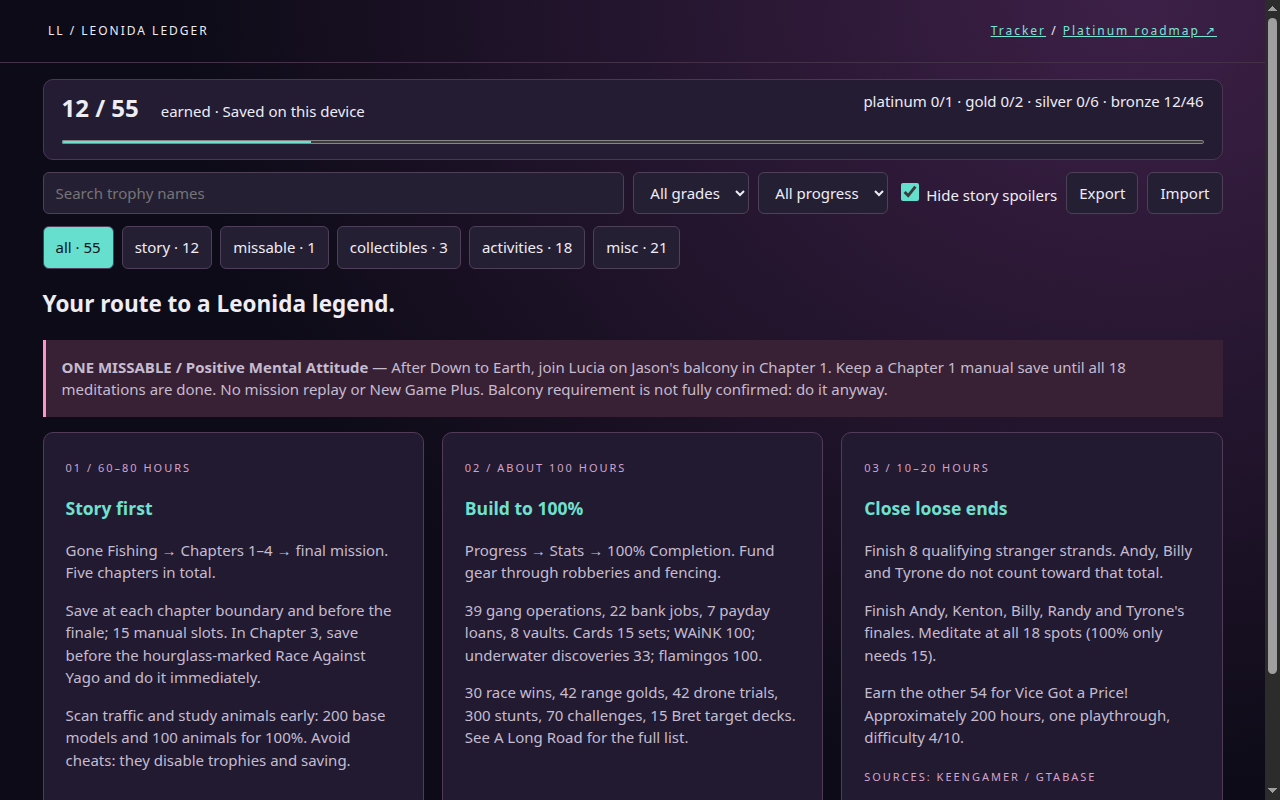
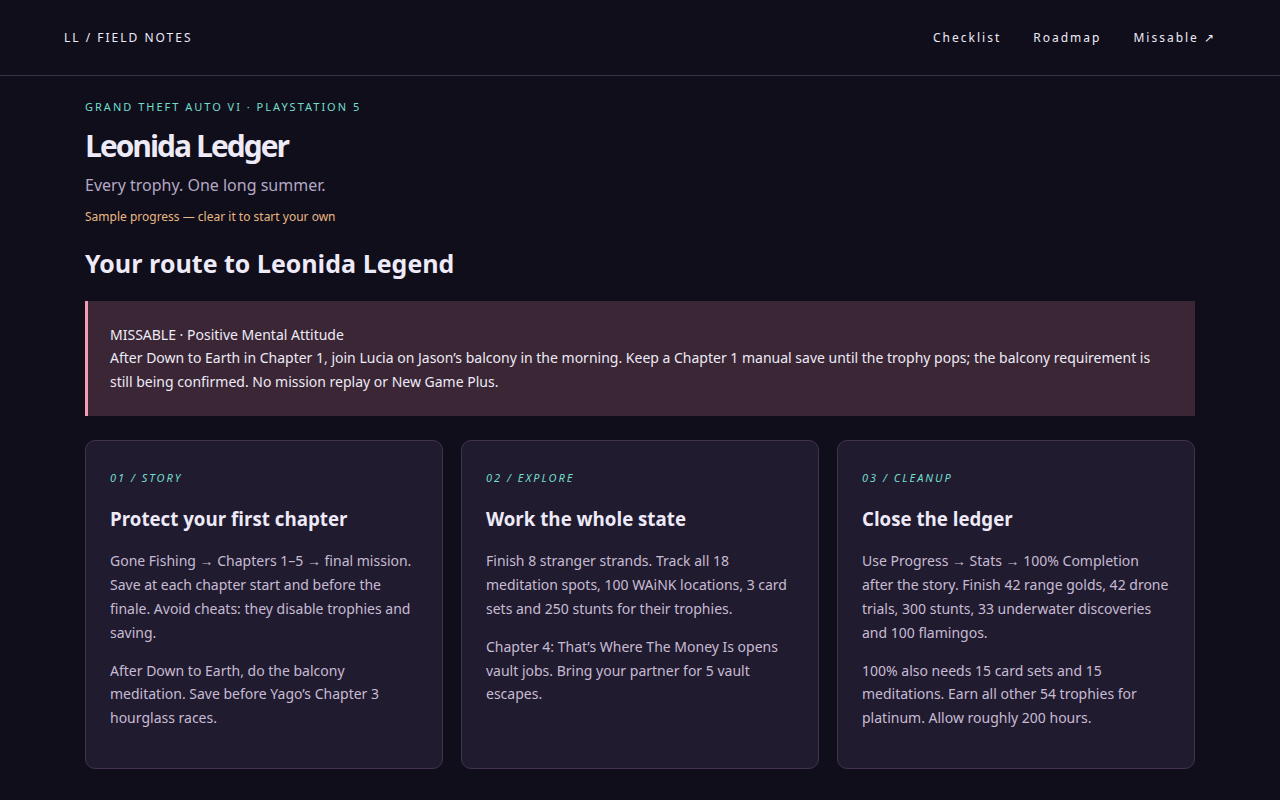
Rewrite app files literally; retake screenshots; fix missable label + sample

diff --git a/app/app.js b/app/app.js
@@ -1,33 +1,42 @@
-const trophies=(await (await fetch('data/trophies.json')).json()).trophies;
-const KEY='leonida-ledger-v1';
+const trophies = (await (await fetch('data/trophies.json')).json()).trophies;
+const $ = s => document.querySelector(s);
+const esc = s => String(s).replace(/[&<>"']/g, c => ({'&':'&amp;','<':'&lt;','>':'&gt;','"':'&quot;',"'":'&#39;'}[c]));
 let state;
-try {state=JSON.parse(localStorage.getItem(KEY)||'{"earned":[],"spoilers":true}');if(!Array.isArray(state.earned))throw Error();}
-catch {state={earned:[],spoilers:true};}
-if(new URLSearchParams(location.search).has('sample')&&!localStorage.getItem(KEY)){state={earned:[2,3,4,8,9,16,20,21,35,42,48,53],spoilers:true,sample:true};save();}
-let kind='all',selected=28;
-const $=id=>document.getElementById(id);
-const esc=s=>String(s).replace(/[&<>"']/g,c=>({'&':'&amp;','<':'&lt;','>':'&gt;','"':'&quot;',"'":'&#39;'}[c]));
-function save(){localStorage.setItem(KEY,JSON.stringify(state));}
-function concealed(t){return state.spoilers&&t.kind==='story'&&!state.earned.includes(t.id);}
-function render(){
- $('spoilers').checked=state.spoilers;
- $('summary').innerHTML=`<strong>${state.earned.length} / 55</strong> earned · Saved on this device <span style="float:right">${['platinum','gold','silver','bronze'].map(g=>`${g} ${trophies.filter(t=>t.grade===g&&state.earned.includes(t.id)).length}/${trophies.filter(t=>t.grade===g).length}`).join(' · ')}</span><progress value="${state.earned.length}" max="55"></progress>`;
- $('sample').innerHTML=state.sample?'Sample progress — clear it to start your own <button id="clear">Clear sample</button>':'';
- if($('clear'))$('clear').onclick=()=>{state.earned=[];state.sample=false;save();render();};
- $('filters').innerHTML=['all','story','missable','collectibles','activities','misc'].map(k=>`<button data-kind="${k}" class="${k===kind?'active':''}">${k} · ${trophies.filter(t=>k==='all'||t.kind===k).length}</button>`).join('');
- $('filters').querySelectorAll('button').forEach(b=>b.onclick=()=>{kind=b.dataset.kind;location.hash='filter='+kind;render();});
- const list=trophies.filter(t=>(kind==='all'||t.kind===kind)&&($('grade').value==='all'||t.grade===$('grade').value)&&($('status').value==='all'||state.earned.includes(t.id)===($('status').value==='earned'))&&(!concealed(t)?t.name.toLowerCase().includes($('search').value.toLowerCase()):!$('search').value));
- $('rows').innerHTML=`<small>${list.length} TROPHIES IN THIS VIEW</small>`+list.map(t=>`<div class="row"><input aria-label="Mark trophy ${t.id} earned" type="checkbox" data-id="${t.id}" ${state.earned.includes(t.id)?'checked':''}><button data-open="${t.id}"><strong>${concealed(t)?'Hidden story trophy — earn it to reveal':esc(t.name)}</strong><p>${concealed(t)?'Story details protected':esc(t.description)}</p><span class="grade"><i class="disc ${t.grade}"></i>${t.grade} · ${t.kind}${t.missable?' · MISSABLE':''}</span></button></div>`).join('');
- $('rows').querySelectorAll('input').forEach(b=>b.onchange=()=>{state.earned=b.checked?[...state.earned,Number(b.dataset.id)]:state.earned.filter(id=>id!==Number(b.dataset.id));save();render();});
- $('rows').querySelectorAll('button').forEach(b=>b.onclick=()=>{location.hash='trophy='+b.dataset.open;});
- const t=trophies.find(t=>t.id===selected)||trophies[0];
- $('detail').innerHTML=`<span class="tag">FIELD NOTES / ${t.missable?'MISSABLE':'TROPHY GUIDE'}</span><h2>${concealed(t)?'Hidden story trophy — earn it to reveal':esc(t.name)}</h2><span class="grade">${t.grade} / ${t.kind} / STAGE ${t.stage}</span><p>${concealed(t)?'Earn this trophy to reveal its description and guide.':esc(t.description)}</p>${concealed(t)?'':`<p>${esc(t.guide)}</p><ol>${(t.steps||[]).map(s=>`<li>${esc(s)}</li>`).join('')}</ol><small>SOURCES / READ FURTHER</small><p>${t.sources.map(s=>`<a href="${esc(s.url)}" target="_blank" rel="noreferrer">${esc(s.name)} ↗</a>`).join('<br>')}</p>`}`;
- const road=location.hash==='#roadmap';document.body.classList.toggle('focused',road||location.hash.startsWith('#trophy=')||kind==='missable');$('workspace').hidden=road;$('roadmap').hidden=!road;
+try { state = JSON.parse(localStorage.getItem('ledger')) || {}; } catch { state = {}; }
+if (new URLSearchParams(location.search).has('sample') && !state.initialized) state = {earned:trophies.filter(t=>t.id!==1).slice(0,12).map(t=>t.id),sample:true};
+state.earned ||= [];
+let kind = '', grade = '', status = '', query = '';
+const save = () => { state.initialized = true; localStorage.setItem('ledger',JSON.stringify(state)); };
+const earned = t => state.earned.includes(t.id);
+const concealed = t => $('#spoilers').checked && t.kind === 'story' && !earned(t);
+const name = t => concealed(t) ? 'Hidden story trophy — earn it to reveal' : t.name;
+function render() {
+ save();
+ $('#notice').textContent = state.sample ? 'Sample progress — clear it to start your own' : 'Your progress is saved on this device.';
+ $('#progress').innerHTML = `<strong>${state.earned.length} / 55 <em>ON THE ROAD TO PLATINUM</em></strong><progress max="55" value="${state.earned.length}"></progress><p>${['platinum','gold','silver','bronze'].map(g=>`${g.toUpperCase()} ${trophies.filter(t=>t.grade===g&&earned(t)).length}/${trophies.filter(t=>t.grade===g).length}`).join('　 /　 ')}</p>`;
+ const hash = location.hash;
+ if (hash === '#roadmap') { roadmap(); return; }
+ if (hash === '#spoilers=on') $('#spoilers').checked = true;
+ if (hash === '#filter=missable') kind = 'missable';
+ $('#filters').hidden = false;
+ $('#filters').innerHTML = `<input id="search" placeholder="Search trophy names" value="${esc(query)}"><select id="kind"><option value="">All kinds · 55</option>${['story','missable','collectibles','activities','misc'].map(k=>`<option value="${k}" ${kind===k?'selected':''}>${k} · ${trophies.filter(t=>t.kind===k).length}</option>`).join('')}</select><select id="grade"><option value="">All grades · 55</option>${['platinum','gold','silver','bronze'].map(g=>`<option ${grade===g?'selected':''}>${g}</option>`).join('')}</select><select id="status"><option value="">All progress · 55</option><option value="earned" ${status==='earned'?'selected':''}>Earned · ${state.earned.length}</option><option value="remaining" ${status==='remaining'?'selected':''}>Remaining · ${55-state.earned.length}</option></select>`;
+ $('#search').oninput = e => { const cursor=e.target.selectionStart; query=e.target.value; render(); $('#search').focus(); $('#search').setSelectionRange(cursor,cursor); };
+ for (const key of ['kind','grade','status']) $('#'+key).onchange = e => { if(key==='kind') kind=e.target.value; if(key==='grade') grade=e.target.value; if(key==='status') status=e.target.value; render(); };
+ const selected = trophies.find(t=>hash===`#trophy=${t.id}`);
+ const list = trophies.filter(t=>(!kind||t.kind===kind)&&(!grade||t.grade===grade)&&(!status||(status==='earned'?earned(t):!earned(t)))&&name(t).toLowerCase().includes(query.toLowerCase()));
+ $('#content').innerHTML = selected ? detail(selected) : `<h2>${kind==='missable'?'The one to watch':'The trophy ledger'} <small>${list.length} entries</small></h2>`+list.map(t=>`<article><input aria-label="Mark ${esc(name(t))} earned" type="checkbox" data-id="${t.id}" ${earned(t)?'checked':''}><span class="disc ${t.grade}"></span><a href="#trophy=${t.id}"><b>${esc(name(t))}</b><p>${esc(concealed(t)?'Story details protected until earned.':t.description)}</p></a><span class="tag">${t.missable?'MISSABLE':t.grade.toUpperCase()}</span></article>`).join('');
+ document.querySelectorAll('[data-id]').forEach(el=>el.onchange=()=>{const id=Number(el.dataset.id); state.earned=el.checked?[...new Set([...state.earned,id])]:state.earned.filter(x=>x!==id); render();});
 }
-$('roadmap').innerHTML=`<h2>Your route to a Leonida legend.</h2><p class="warning"><b>ONE MISSABLE / Positive Mental Attitude</b> — After Down to Earth, join Lucia on Jason's balcony in Chapter 1. Keep a Chapter 1 manual save until all 18 meditations are done. No mission replay or New Game Plus. Balcony requirement is not fully confirmed: do it anyway.</p><div class="stages"><article><small>01 / 60–80 HOURS</small><h3>Story first</h3><p>Gone Fishing → Chapters 1–4 → final mission. Five chapters in total.</p><p>Save at each chapter boundary and before the finale; 15 manual slots. In Chapter 3, save before the hourglass-marked Race Against Yago and do it immediately.</p><p>Scan traffic and study animals early: 200 base models and 100 animals for 100%. Avoid cheats: they disable trophies and saving.</p></article><article><small>02 / ABOUT 100 HOURS</small><h3>Build to 100%</h3><p>Progress → Stats → 100% Completion. Fund gear through robberies and fencing.</p><p>39 gang operations, 22 bank jobs, 7 payday loans, 8 vaults. Cards 15 sets; WAiNK 100; underwater discoveries 33; flamingos 100.</p><p>30 race wins, 42 range golds, 42 drone trials, 300 stunts, 70 challenges, 15 Bret target decks. See A Long Road for the full list.</p></article><article><small>03 / 10–20 HOURS</small><h3>Close loose ends</h3><p>Finish 8 qualifying stranger strands. Andy, Billy and Tyrone do not count toward that total.</p><p>Finish Andy, Kenton, Billy, Randy and Tyrone's finales. Meditate at all 18 spots (100% only needs 15).</p><p>Earn the other 54 for Vice Got a Price! Approximately 200 hours, one playthrough, difficulty 4/10.</p><small>SOURCES: KEENGAMER / GTABASE</small></article></div>`;
-for(const id of ['search','grade','status'])$(id).oninput=render;
-$('spoilers').onchange=()=>{state.spoilers=$('spoilers').checked;save();render();};
-$('export').onclick=()=>{const a=document.createElement('a');a.href=URL.createObjectURL(new Blob([JSON.stringify(state,null,2)],{type:'application/json'}));a.download='leonida-progress.json';a.click();setTimeout(()=>URL.revokeObjectURL(a.href),1000);};
-$('import').onchange=async e=>{try{const s=JSON.parse(await e.target.files[0].text());if(!Array.isArray(s.earned)||s.earned.some(id=>!trophies.some(t=>t.id===id)))throw Error('Invalid trophy IDs');state={earned:[...new Set(s.earned)],spoilers:s.spoilers!==false,sample:!!s.sample};save();render();$('notice').textContent='Progress restored.';}catch{$('notice').textContent='Could not import: choose a valid progress JSON file.'}};
-function route(){const h=location.hash.slice(1);if(h.startsWith('trophy='))selected=Number(h.split('=')[1]);if(h.startsWith('filter='))kind=h.split('=')[1];if(h==='spoilers=on'){state.spoilers=true;save();}render();}
-window.onhashchange=route;route();
+function detail(t) {
+ return `<a href="#">← Back to checklist</a><section class="detail"><p class="eyebrow">${t.grade} / ${t.kind} / ROADMAP STAGE ${t.stage}${t.missable&&t.kind!=='missable'?' / MISSABLE':''}</p><h2>${esc(name(t))}</h2><p>${esc(concealed(t)?'Earn this story trophy to reveal its details.':t.description)}</p>${concealed(t)?'':`<h3>Field guide</h3><p>${esc(t.guide)}</p><ol>${(t.steps||[]).map(s=>`<li>${esc(s)}</li>`).join('')}</ol><h3>Sources & further reading</h3>${t.sources.map(s=>`<a class="source" href="${esc(s.url)}" target="_blank" rel="noreferrer">${esc(s.name)} ↗</a>`).join('')}`}</section>`;
+}
+function roadmap() {
+ $('#filters').hidden=true;
+ $('#content').innerHTML=`<h2>Your route to Leonida Legend</h2><aside>MISSABLE · Positive Mental Attitude<br>After Down to Earth in Chapter 1, join Lucia on Jason’s balcony in the morning. Keep a Chapter 1 manual save until the trophy pops; the balcony requirement is still being confirmed. No mission replay or New Game Plus.</aside><div class="stages"><section><i>01 / STORY</i><h3>Protect your first chapter</h3><p>Gone Fishing → Chapters 1–5 → final mission. Save at each chapter start and before the finale. Avoid cheats: they disable trophies and saving.</p><p>After Down to Earth, do the balcony meditation. Save before Yago’s Chapter 3 hourglass races.</p></section><section><i>02 / EXPLORE</i><h3>Work the whole state</h3><p>Finish 8 stranger strands. Track all 18 meditation spots, 100 WAiNK locations, 3 card sets and 250 stunts for their trophies.</p><p>Chapter 4: That’s Where The Money Is opens vault jobs. Bring your partner for 5 vault escapes.</p></section><section><i>03 / CLEANUP</i><h3>Close the ledger</h3><p>Use Progress → Stats → 100% Completion after the story. Finish 42 range golds, 42 drone trials, 300 stunts, 33 underwater discoveries and 100 flamingos.</p><p>100% also needs 15 card sets and 15 meditations. Earn all other 54 trophies for platinum. Allow roughly 200 hours.</p></section></div>`;
+}
+$('#spoilers').onchange=render;
+$('#clear').onclick=()=>{state={earned:[],initialized:true};render();};
+$('#export').onclick=()=>{const a=document.createElement('a');a.href=URL.createObjectURL(new Blob([JSON.stringify(state)],{type:'application/json'}));a.download='leonida-progress.json';a.click();URL.revokeObjectURL(a.href);};
+$('#import').onchange=async e=>{try {const data=JSON.parse(await e.target.files[0].text());if(!Array.isArray(data.earned)||data.earned.some(id=>!trophies.some(t=>t.id===id)))throw Error('Invalid trophy IDs');state={earned:[...new Set(data.earned)],sample:!!data.sample};render();}catch(error){$('#notice').textContent='Import failed: '+error.message;}};
+addEventListener('hashchange',render);
+render();

diff --git a/app/style.css b/app/style.css
@@ -1,3 +1,3 @@
-:root{color-scheme:dark;font:15px/1.5 system-ui;background:#0d0b17;color:#eeedf5}*{box-sizing:border-box}[hidden]{display:none!important}body{margin:0;background:radial-gradient(ellipse at 90% 0,#3d2047,transparent 60%)}header{display:flex;justify-content:space-between;padding:22px 48px;border-bottom:1px solid #443149;letter-spacing:2px;font-size:12px}a{color:#77e4d4}main{max-width:1180px;margin:auto;padding:26px 0}small{letter-spacing:2px;color:#d6a4cd;font-size:11px}h1{font-size:42px;line-height:1.1;letter-spacing:-2px;margin:18px 0}em{font-style:normal;color:#71e4d1}p{color:#c5bcd0}#summary{padding:18px 22px;background:#231c33;border:1px solid #4d3655;border-radius:10px}#summary strong{font-size:24px;margin-right:18px}progress{width:100%;height:8px;accent-color:#6ce0ce}.tools{display:flex;gap:9px;align-items:center;margin:18px 0}button,.button,select,input:not([type=checkbox]){background:#251f34;border:1px solid #4d4058;color:inherit;padding:9px 12px;border-radius:6px;font:inherit}button,.button{cursor:pointer}#search{flex:1;min-width:80px}input[type=checkbox]{accent-color:#65dfcd;width:18px;height:18px}#filters{display:flex;gap:8px;margin:16px 0}button.active{background:#66dfce;color:#101520}#workspace{display:grid;grid-template-columns:1.15fr 1fr;gap:22px}.row{display:flex;gap:14px;padding:15px;border-bottom:1px solid #3a2c43;background:#171321}.row button{padding:0;border:0;background:none;text-align:left;flex:1}.row strong{display:block;font-size:16px}.row p{margin:3px 0;font-size:13px}.disc{width:12px;height:12px;display:inline-block;border-radius:50%;background:#be8a67;margin-right:8px;box-shadow:0 0 0 3px #be8a6722}.gold{background:#ebc66e}.silver{background:#c6cfdf}.platinum{background:#78dfe7}.grade{font-size:10px;text-transform:uppercase;letter-spacing:1px;color:#c8b8d1}aside{padding:24px;background:#251b32;border:1px solid #614161;border-radius:12px;align-self:start;position:sticky;top:18px}aside h2{font-size:28px;line-height:1.2;margin:12px 0}.tag{color:#ff9aca;letter-spacing:2px;font-size:11px}aside p{margin:12px 0}li{margin-bottom:8px}.warning{padding:16px;border-left:3px solid #ff92c9;background:#382035}.stages{display:grid;grid-template-columns:repeat(3,1fr);gap:18px}article{padding:22px;background:#211a30;border:1px solid #523b59;border-radius:10px}h3{color:#70e0cf}footer{font-size:10px;letter-spacing:2px;color:#9d8da9;margin:22px 0}#sample{font-size:12px;color:#ffafd5}@media(max-width:800px){main{padding:20px}#workspace,.stages{grid-template-columns:1fr}.tools{flex-wrap:wrap}}
-.focused h1{font-size:26px;margin:10px 0}.focused main>p:not(#notice):not(#sample){display:none}.focused #summary{padding:10px 18px}.focused main{padding-top:16px}.focused aside{font-size:14px}.focused .tools{margin:12px 0}.focused #sample{margin:4px 0}
-.focused main>small,.focused h1,.focused #sample{display:none}.focused #summary{margin-top:0}.focused aside{padding:18px}.focused aside h2{font-size:24px}.focused #filters{margin:12px 0}.focused li{margin-bottom:4px}
+:root{color-scheme:dark;font-family:Inter,ui-sans-serif,system-ui,sans-serif;color:#eeeaf7;background:#100e1b}*{box-sizing:border-box}body{margin:0;background:radial-gradient(ellipse at 85% 0,#382044,transparent 55%)}header{height:76px;border-bottom:1px solid #393044;display:flex;justify-content:space-between;align-items:center;padding:0 5%;font-size:12px;letter-spacing:2px}nav{display:flex;gap:32px}a{color:inherit;text-decoration:none}a:hover{color:#72e1cf}main{max-width:1150px;margin:auto;padding:30px 20px}.eyebrow,i{color:#71dfcc;letter-spacing:2px;font-size:11px;text-transform:uppercase}h1{font-size:55px;letter-spacing:-2px;margin:12px 0 25px}h1 small{display:block;font-size:16px;font-weight:400;color:#b3a8c3;letter-spacing:0;margin-top:8px}#progress{padding:20px 24px;background:#211b30;border:1px solid #45324e;border-radius:12px}strong{font-size:26px}em{font-size:11px;font-style:normal;letter-spacing:2px;margin-left:22px;color:#c8b6d5}progress{display:block;width:100%;height:8px;margin:15px 0;accent-color:#70dfcb}#progress p{font-size:11px;color:#bcafcb;letter-spacing:1px;margin:0}.tools{display:flex;align-items:center;gap:18px;margin-top:20px;font-size:12px}button,select,input{font:inherit}button,select,#search{background:#201b2c;color:#e9e2ef;border:1px solid #4b3b57;border-radius:6px;padding:10px}button{cursor:pointer}.tools input[type=file]{width:170px;font-size:10px}#notice{font-size:12px;color:#e8b882}#filters{display:flex;gap:12px;margin:24px 0}#search{flex:1}h2{font-size:25px}h2 small{font-size:12px;color:#a69ab7;margin-left:15px}article{display:flex;align-items:center;gap:18px;border-top:1px solid #332b40;padding:17px 8px}article a{flex:1}article b{font-size:15px}article p{font-size:12px;color:#b5a9c1;margin:6px 0 0}input[type=checkbox]{accent-color:#70dfcb;width:17px;height:17px}.disc{width:28px;height:28px;border-radius:50%;border:4px double #aa758c;background:#704957;box-shadow:0 0 15px #a8738922}.gold{background:#c5a358;border-color:#f1d79c}.silver{background:#939bb2;border-color:#d9e2ef}.platinum{background:#529fbb;border-color:#a2e4ec}.tag{font-size:10px;letter-spacing:1px;color:#dd9aba}.detail{margin-top:20px;padding:25px 32px;border:1px solid #57405f;background:#211a30;border-radius:12px}.detail h2{font-size:34px}.detail p,.detail li{line-height:1.65;color:#d0c5dc;font-size:14px}.source{display:inline-block;margin-right:18px;color:#73ddce;font-size:13px}aside{padding:22px;background:#3a2634;border-left:3px solid #f29db7;line-height:1.7;font-size:14px}.stages{display:grid;grid-template-columns:repeat(3,1fr);gap:18px;margin-top:24px}.stages section{background:#211b30;border:1px solid #42334e;border-radius:10px;padding:24px}.stages p{font-size:14px;line-height:1.7;color:#c7bbd3}@media(max-width:700px){h1{font-size:40px}.tools,#filters{flex-wrap:wrap}.stages{grid-template-columns:1fr}header{padding:15px}nav{gap:12px}.tag{display:none}}
+:root body{background:#100e1b}
+[hidden]{display:none!important}body:has(.detail) h1,body:has(.stages) h1{font-size:30px;margin:8px 0}body:has(.detail) #progress,body:has(.stages) #progress,body:has(.detail) .tools,body:has(.stages) .tools,body:has(.detail) #filters{display:none}body:has(.detail) main,body:has(.stages) main{padding-top:12px}

diff --git a/main.ts b/main.ts
@@ -1,15 +1,19 @@
-import {cpSync,mkdirSync,readFileSync,writeFileSync,rmSync} from 'node:fs';
-import {fileURLToPath} from 'node:url';
-import {join} from 'node:path';
-import {buildDossier} from './vendor/makefun-frontend.ts';
-const root=fileURLToPath(new URL('.',import.meta.url));
-const list=JSON.parse(readFileSync(join(root,'app/data/trophies.json'),'utf8')).trophies;
-if(list.length!==55||list.some(t=>!t.name||!t.guide?.trim()))throw Error('Expected 55 named trophies with nonblank guides');
-if(new Set(list.map(t=>t.name)).size!==55)throw Error('Duplicate trophy names');
-for(const [grade,count] of Object.entries({platinum:1,gold:2,silver:6,bronze:46}))if(list.filter(t=>t.grade===grade).length!==count)throw Error('Incorrect grade total: '+grade);
-if(list.filter(t=>t.missable).length!==1)throw Error('Expected one missable trophy');
-const out=process.env.MAKEFUN_OUTPUT_DIR??'/output';
-mkdirSync(out,{recursive:true});
-if(out===root)throw Error('Output must differ from the source repository');
-for(const folder of ['app','screenshots']){rmSync(join(out,folder),{recursive:true,force:true});cpSync(join(root,folder),join(out,folder),{recursive:true});}
-writeFileSync(join(out,'dossier.json'),buildDossier(out,{text_max_bytes:163840,screenshots:{max:4,max_bytes:262144},app_max_files:993,app_max_bytes:50331648}));
+import { cpSync, mkdirSync, readFileSync, writeFileSync } from 'node:fs';
+import { fileURLToPath } from 'node:url';
+import { join } from 'node:path';
+import { buildDossier } from './vendor/makefun-frontend.ts';
+const root = fileURLToPath(new URL('.', import.meta.url));
+const trophies = JSON.parse(readFileSync(join(root, 'app/data/trophies.json'), 'utf8')).trophies;
+if (trophies.length !== 55 || trophies.some(t => !t.name || !t.guide?.trim())) throw Error('Expected 55 named trophies with guides');
+for (const [grade, count] of Object.entries({platinum:1,gold:2,silver:6,bronze:46})) {
+  if (trophies.filter(t => t.grade === grade).length !== count) throw Error('Invalid grade count: ' + grade);
+}
+if (trophies.filter(t => t.hidden).length !== 28) throw Error('Expected 28 hidden trophies');
+if (trophies.filter(t => t.missable).length !== 1) throw Error('Expected one missable trophy');
+if (!trophies.find(t => t.id === 28)?.missable || trophies.some(t => !t.sources?.length)) throw Error('Missing sources or incorrect missable identity');
+if (new Set(trophies.map(t => t.id)).size !== 55) throw Error('Duplicate trophy IDs');
+const output = process.env.MAKEFUN_OUTPUT_DIR ?? '/output';
+mkdirSync(output, {recursive:true});
+cpSync(join(root,'app'), join(output,'app'), {recursive:true});
+cpSync(join(root,'screenshots'), join(output,'screenshots'), {recursive:true});
+writeFileSync(join(output,'dossier.json'), buildDossier(output, {text_max_bytes:163840, screenshots:{max:4,max_bytes:262144}, app_max_files:993, app_max_bytes:50331648}));

diff --git a/app/index.html b/app/index.html
@@ -1,1 +1,8 @@
-<!doctype html><html lang="en"><meta charset="utf-8"><meta name="viewport" content="width=device-width"><title>Leonida Ledger</title><link rel="stylesheet" href="style.css"><body><header>LL / LEONIDA LEDGER <nav><a href="#">Tracker</a> / <a href="#roadmap">Platinum roadmap ↗</a></nav></header><main><small>GTA VI / PLAYSTATION 5 / OFFLINE FIELD GUIDE</small><h1>Leave a legend. <em>Keep a record.</em></h1><p>55 trophies. One long summer. Your route to the platinum.</p><section id="summary"></section><p id="sample"></p><div class="tools"><input id="search" placeholder="Search trophy names" aria-label="Search"><select id="grade"><option value="all">All grades</option><option>platinum</option><option>gold</option><option>silver</option><option>bronze</option></select><select id="status"><option value="all">All progress</option><option>earned</option><option>remaining</option></select><label><input type="checkbox" id="spoilers" checked> Hide story spoilers</label><button id="export">Export</button><label class="button">Import<input id="import" type="file" accept="application/json" hidden></label></div><div id="filters"></div><div id="workspace"><section id="rows"></section><aside id="detail"></aside></div><section id="roadmap" hidden></section><p id="notice" role="status"></p><footer>LOCAL SAVE · NO ACCOUNT · NO ONLINE TROPHIES · INDEPENDENT GUIDE</footer></main><script type="module" src="app.js"></script></body></html>
+<!doctype html>
+<html lang="en">
+<meta charset="utf-8"><meta name="viewport" content="width=device-width,initial-scale=1">
+<title>Leonida Ledger</title><link rel="stylesheet" href="style.css">
+<body><header><span>LL / FIELD NOTES</span><nav><a href="#">Checklist</a><a href="#roadmap">Roadmap</a><a href="#filter=missable">Missable ↗</a></nav></header>
+<main><p class="eyebrow">GRAND THEFT AUTO VI · PLAYSTATION 5</p><h1>Leonida Ledger<small>Every trophy. One long summer.</small></h1>
+<section id="progress"></section><div class="tools"><button id="export">Export progress</button><label>Import progress <input id="import" type="file" accept="application/json"></label><button id="clear">Clear progress</button><label><input id="spoilers" type="checkbox" checked> Hide story spoilers</label></div>
+<p id="notice" role="status"></p><div id="filters"></div><div id="content"></div></main><script src="app.js" type="module"></script></body></html>

diff --git a/README.md b/README.md
@@ -2,12 +2,14 @@
 [![rank](https://make.fun/badge/gta6-trophy-guide-01/sanschiko3-dotcom/gta6-trophy-guide-01/rank.svg)](https://make.fun/bounty/gta6-trophy-guide-01/leaderboard?utm_source=github&utm_medium=readme&utm_campaign=gta6-trophy-guide-01)
 [![reward](https://make.fun/badge/gta6-trophy-guide-01/sanschiko3-dotcom/gta6-trophy-guide-01/reward.svg)](https://make.fun/bounty/gta6-trophy-guide-01?utm_source=github&utm_medium=readme&utm_campaign=gta6-trophy-guide-01)
 
-Leonida Ledger is an independent, offline GTA VI trophy guide and local progress tracker. Original CSS and typography; no official artwork. Includes cited guides, filters, story spoiler protection, JSON backup and a three-stage platinum roadmap.
+# Leonida Ledger
 
-Run `node serve.ts` and open localhost:8080, or serve app/ with any static server. No build step or external runtime resources. Source links connect only when followed. Try `?sample=1` for 12 sample earned trophies; clear the labelled sample to start your own. Progress belongs to this browser; export it before clearing site data. Import accepts the exported JSON format.
+A local GTA VI trophy field guide for PlayStation 5, with a persistent checklist, protected story spoilers, sourced guides, progress import/export and a three-stage platinum roadmap.
 
-The supplied verified research lists 55 PS5 trophies: 1 platinum, 2 gold, 6 silver, 46 bronze. Approximately 200 hours, one playthrough, one missable: Positive Mental Attitude. Keep a Chapter 1 manual save; there is no mission replay. Unconfirmed methods are explicitly labelled. Story spoiler protection hides both names and descriptions until earned, independently of PlayStation's hidden flag.
+Run `node serve.ts` and open localhost:8080. Any static server serving app/ also works. No build, external assets, fonts or runtime internet connection is needed. Progress lives in this browser; export a backup before changing devices. Use `?sample=1` to try twelve earned trophies, then clear progress to begin.
 
-Sources: the kit's official list (Exophase / PSNProfiles), the supplied November 19 research brief, [Keengamer](https://www.keengamer.com/articles/guides/gta-6-trophy-guide-platinum-roadmap-all-55-trophies/), [OutputLag](https://outputlag.com/guides/gta-6-trophy-list/), and [GTABase](https://www.gtabase.com/articles/gta-6/gta-6-achievements-trophies-list-ps5-xbox-series). Each guide cites its supporting source. Guides are original paraphrases; official names, descriptions and grades remain unchanged.
+The list contains 55 trophies: 1 platinum, 2 gold, 6 silver and 46 bronze. Allow roughly 200 hours. Positive Mental Attitude is the single missable: protect a Chapter 1 save and complete Lucia’s balcony meditation. The exact balcony requirement is still being confirmed; do it anyway. There is no mission replay.
 
-`MAKEFUN_OUTPUT_DIR=/tmp/gta6-out node main.ts` copies the app and real browser captures and produces the dossier using the unchanged kit library. Nothing is submitted by this command.
+Sources are linked individually inside each trophy guide: [Exophase](https://www.exophase.com/), [PSNProfiles](https://psnprofiles.com/), [OutputLag](https://outputlag.com/guides/gta-6-trophy-list/) and [Keengamer](https://www.keengamer.com/articles/guides/gta-6-trophy-guide-platinum-roadmap-all-55-trophies/). Unconfirmed triggers are identified in the guides. The interface contains no official artwork.
+
+Run `MAKEFUN_OUTPUT_DIR=/tmp/leonida-output node main.ts` to validate the list and produce the static app, screenshots and deterministic dossier.
